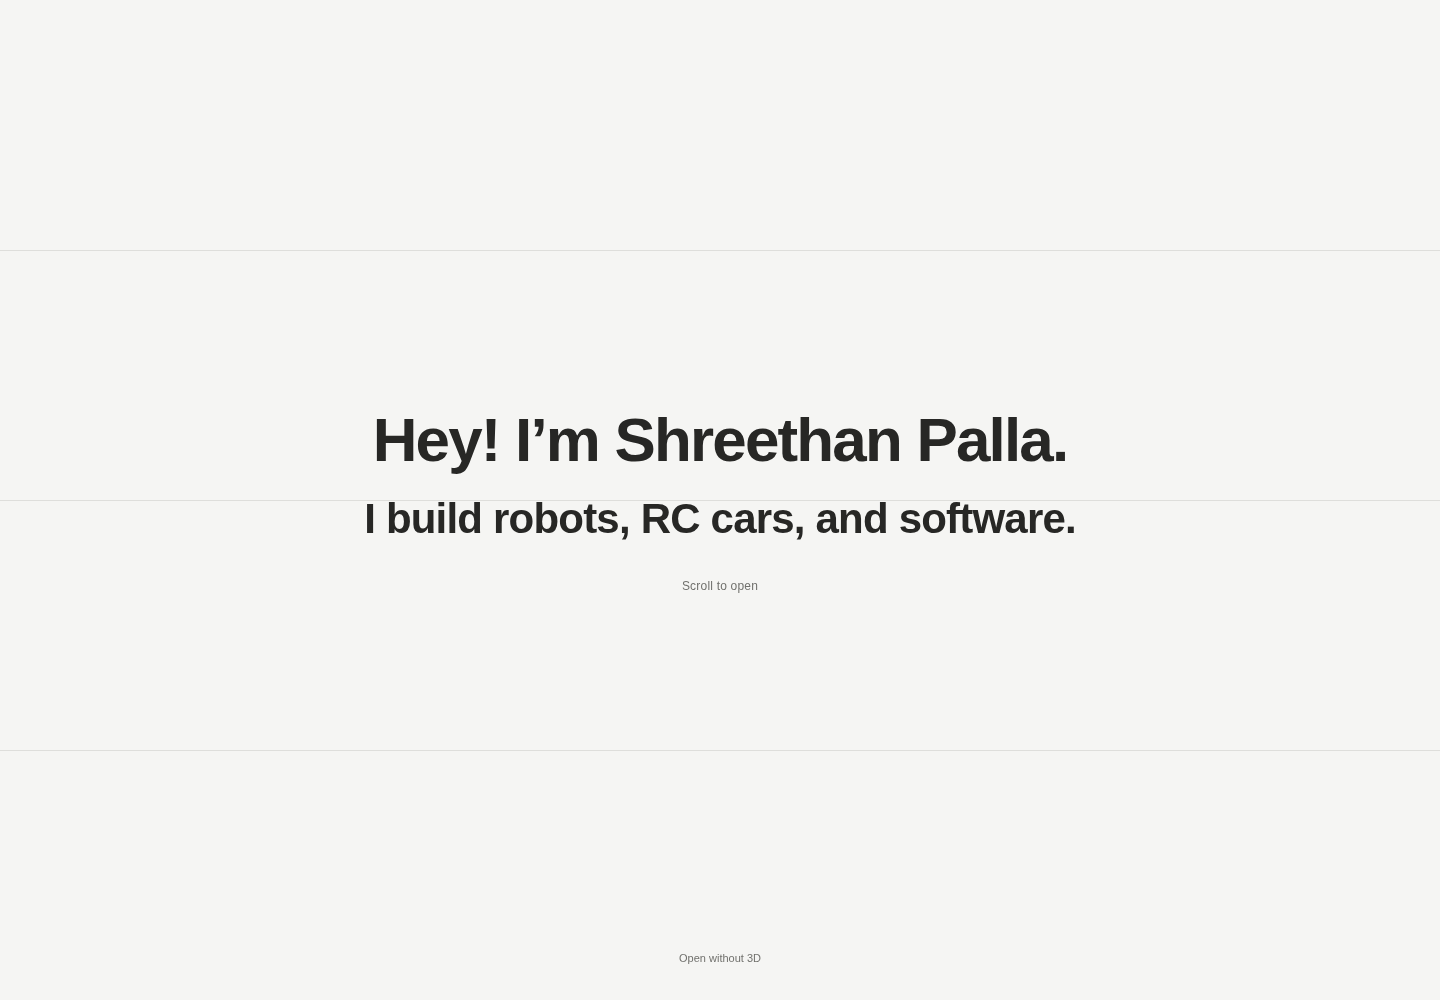
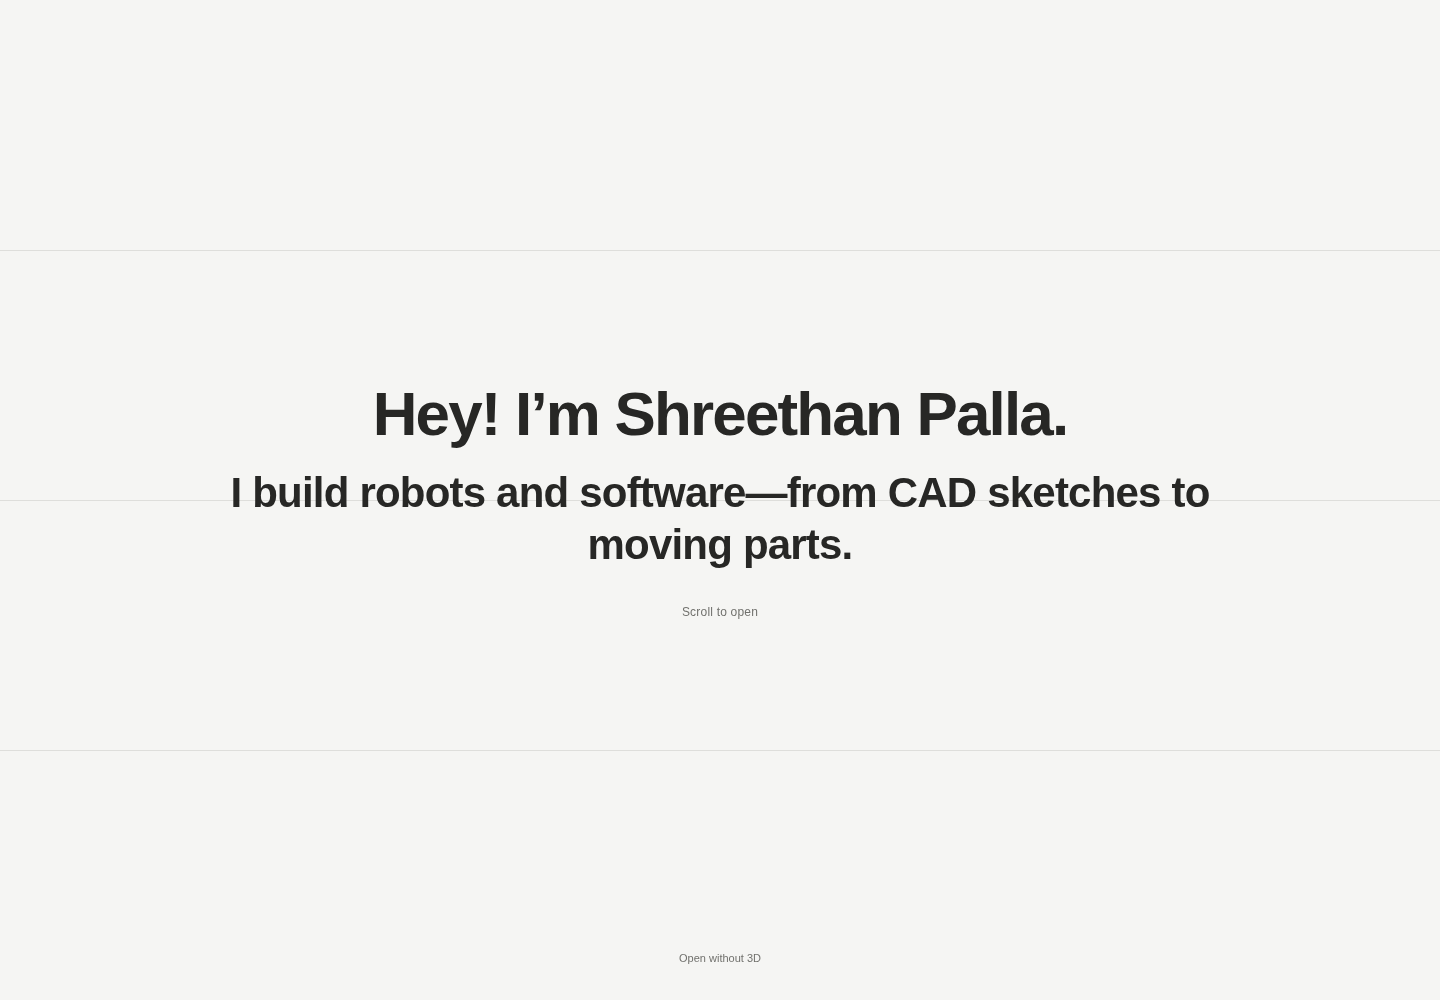
Make entrance copy editable and plan CAD-inspired portfolio interface

Changed region(s): [[0.1562, 0.372, 0.8438, 0.62]]

diff --git a/experience/src/Application/UI/components/LoadingScreen.tsx b/experience/src/Application/UI/components/LoadingScreen.tsx
@@ -1,6 +1,7 @@
 import React, { useEffect, useRef, useState } from 'react';
 import Application from '../../Application';
 import eventBus from '../EventBus';
+import { portfolioCopy } from '../../../portfolio-copy';
 
 /** Real asset loading, then text moves away before the sectional door opens. */
 const LoadingScreen: React.FC = () => {
@@ -141,7 +142,7 @@ const LoadingScreen: React.FC = () => {
     }, [ready]);
 
     if (phase === 'done') return null;
-    const loadingText = progress < .35 ? 'Loading graphics workspace…' : progress < .8 ? 'Setting up the workbench…' : 'One last bolt…';
+    const loadingText = progress < .35 ? portfolioCopy.loading.graphics : progress < .8 ? portfolioCopy.loading.workbench : portfolioCopy.loading.finishing;
     return (
         <div className={`garage-entry garage-entry--${phase}`} aria-label="Workshop entrance">
             <div className="garage-door" aria-hidden="true">
@@ -159,12 +160,12 @@ const LoadingScreen: React.FC = () => {
                 </>}
             </div>}
             {ready && <section className="garage-copy" ref={copy} aria-label="About Shreethan">
-                <h1 className="garage-name">Hey! I’m <span className="garage-person">Shreethan Palla.</span></h1>
-                <p className="garage-intro">I build robots, RC cars, and software.</p>
-                <p className="garage-hint">Scroll to open</p>
+                <h1 className="garage-name">{portfolioCopy.greeting} <span className="garage-person">{portfolioCopy.name}</span></h1>
+                <p className="garage-intro">{portfolioCopy.intro}</p>
+                <p className="garage-hint">{portfolioCopy.scrollHint}</p>
                 <p className="garage-sr-only">Scroll, swipe up, or use Page Down to open. Press End to continue directly.</p>
             </section>}
-            <a className="garage-direct" href="/desktop">Open without 3D</a>
+            <a className="garage-direct" href="/desktop">{portfolioCopy.directLink}</a>
         </div>
     );
 };

diff --git a/experience/src/portfolio-copy.ts b/experience/src/portfolio-copy.ts
@@ -1,0 +1,15 @@
+// Edit the words between quotes, then commit to publish a new build.
+// Keep the quotes and commas. Use double quotes if your text contains an apostrophe.
+// This file changes the entrance text, not the room, camera, or animation.
+export const portfolioCopy = {
+    greeting: "Hey! I’m",
+    name: "Shreethan Palla.",
+    intro: "I build robots and software—from CAD sketches to moving parts.",
+    scrollHint: "Scroll to open",
+    directLink: "Open without 3D",
+    loading: {
+        graphics: "Loading graphics workspace…",
+        workbench: "Setting up the workbench…",
+        finishing: "One last bolt…",
+    },
+};

diff --git a/docs/CONTENT-AND-INTERFACE.md b/docs/CONTENT-AND-INTERFACE.md
@@ -1,0 +1,75 @@
+# Edit your text and plan the monitor interface
+
+## Change the intro yourself
+
+The entrance text lives in one file: [`experience/src/portfolio-copy.ts`](../experience/src/portfolio-copy.ts). `greeting` and `name` make the first line. `intro` makes the description underneath. The other fields control the scroll hint, direct link label and three loading messages.
+
+On GitHub:
+
+1. Open [the file on main](https://github.com/shreethan0303/shreethan/blob/main/experience/src/portfolio-copy.ts).
+2. Click the pencil to edit. Change the words between double quotes, keeping the quotes and commas.
+3. Preview your changes, then commit to `main` for the production workflow, or a branch for a preview/review.
+4. Vercel's connected Git integration starts a build. Open the deployment for that branch and commit. Wait for **Ready**, then visit its website URL and refresh.
+
+Use the branch that supplies the URL you are viewing. A `main` commit does not change the `codex/reference-baseline` preview. Codex currently pushes this task's changes to both branches; an edit you make on GitHub changes only your chosen branch. Prefer the main production URL for routine text edits. A deployment-specific URL remains tied to that deployment; a branch alias advances to its newer successful deployments.
+
+A commit records a version of the source. A push sends local commits to GitHub; editing directly on GitHub already saves them there. A build compiles source into files a browser can run. A deployment publishes a build. While a newer build is running, an existing alias may still show the previous successful deployment. A failed build does not prove your change was published.
+
+The copy file exports a JavaScript object: labels on the left, strings on the right. `LoadingScreen.tsx` imports that object and inserts the strings into HTML through React. The text is real HTML on top of the 3D scene, so changing it needs no CAD export or texture editing. React treats these strings as text; do not put HTML tags in them.
+
+For local editing, save the file with `npm run dev` running and `npm run watch:experience` in a second terminal. Wait for the renderer to recompile and refresh. The initial `dev` command builds the renderer once; the separate watcher rebuilds it on later saves. Do not edit `public/experience`: it is generated and overwritten.
+
+Current introduction:
+
+> Hey! I’m Shreethan Palla.
+> I build robots and software—from CAD sketches to moving parts.
+
+Two alternative directions, if you prefer:
+
+- Systems: “I build robots and software. My favorite part is making the pieces work together.”
+- Iteration: “I build robots and software. Sketch, test, find the weak point, repeat.”
+
+These describe an approach without inventing awards, credentials or project results. The case studies should provide the evidence: your role, the constraint, your design decision, and what actually happened.
+
+## Proposed direction: a portfolio document inspired by CAD
+
+This is a design proposal, not an implemented replacement for the current desktop. Keep the white room, existing paper and entrance. Add the computer when a suitable asset is ready. Its screen can present your work as a lightweight engineering document, using your own name and visual identity.
+
+| Area          | What visitors see                                            | Purpose                                             |
+| ------------- | ------------------------------------------------------------ | --------------------------------------------------- |
+| Top bar       | Shreethan Palla · Projects · About · Résumé · Contact        | Direct access without CAD knowledge                 |
+| Left panel    | Actual project names and a small preview                     | Choose a project in one click                       |
+| Main viewport | A real model or photo, project summary and your contribution | Understand what you built before exploring          |
+| Project tabs  | Overview · Assembly · Build notes · Results                  | Move between evidence and explanation               |
+| Model control | Explode / Assemble, plus an optional scroll-controlled view  | Explain components only where the model supports it |
+| Back control  | Back to desk                                                 | Return to the physical scene without getting lost   |
+
+The Part Studio / Assembly idea works best as a visual reference: a neat component tree, a generous viewport and document tabs. Use familiar portfolio labels for essential navigation. Each control needs a real job. Feature-history entries could become real build milestones with a photo and one design decision; do not add pretend tools or an empty toolbar just to resemble CAD software.
+
+At launch, choose either a project list or project tabs as the primary project selector. Avoid two competing selectors. On phones, put the project chooser above the content instead of squeezing in a permanent sidebar. Keep hover highlighting optional; taps and keyboard activation must open the same content.
+
+## How it would work technically
+
+The room uses Three.js to render meshes from a camera viewpoint. The computer's visible screen can carry an HTML interface positioned with the existing CSS3D integration. Buttons, text and navigation stay ordinary HTML. That makes readable content much easier than drawing letters onto a 3D texture.
+
+Next.js supplies the direct content routes. Use one shared source of project data for the monitor and direct pages; do not maintain separate biographies. A project URL should open the same case study without requiring the entrance or a 3D-capable device. Keep `/resume` and `/desktop` accessible directly. The current desktop is an older, simple window interface; this proposed CAD-document layout would replace its presentation after review.
+
+Onshape is where you author geometry and assembly structure. It is not required at runtime: export a model, optimize a public copy, then load it in the website. A GLB is a packaged mesh/material file, not the original editable feature history or constraint solver. The website can rotate, highlight and separate named meshes without reproducing a CAD application. We author exploded directions and distances separately so they explain the actual assembly. See [the interaction guide](WORKSHOP-INTERACTIONS.md) and [CAD workflow](WORKFLOW.md#cad-and-appearance).
+
+For scrolling, map progress from 0 to 1 to each part's assembled position plus an authored separation offset. Interpolate positions, not the original CAD dimensions. Reverse scroll brings parts back together. Keep a visible Assemble control and a readable description. Select one assembly section for this behavior; leave the rest of the page's scrolling predictable.
+
+Do not embed a full live Onshape editor for the launch. A portfolio needs fast reading and navigation; authentication, editing toolbars and a CAD session introduce requirements the portfolio does not need. A link to a deliberately public Onshape document can supplement the case study later.
+
+## Two-day order
+
+1. Settle the monitor layout with one reusable case-study template and direct navigation. Add the real short bio, project facts, links and résumé when supplied. Continue using lorem ipsum in the résumé until then.
+2. Import one real named-part CAD export and implement its inspection/exploded behavior. Validate phone layout, direct routes, keyboard access and the hosted deployment. A good photo and clear case study can ship first if the export is not ready.
+
+The proper PC asset remains deferred, with no new placeholder inserted. Bike, games, a CAD constraint solver and elaborate fake OS interactions stay outside this launch scope.
+
+## References inspected for this direction
+
+- [Henry Heffernan's room README](https://github.com/henryjeff/portfolio-website): explicitly separates the 3D room and inner 2D site into two repositories. Reuse that separation of responsibilities, retaining the license credit for adapted code.
+- [Brittany Chiang's v4 hero source](https://github.com/bchiang7/v4/blob/master/src/components/sections/hero.js): name, specific work statement and short explanatory paragraph are distinct. Borrow the clarity and hierarchy, not another person's biography. This is a source reference to v4, not a claim about the current live homepage.
+
+These public repository sources were retrieved. No live interactive Onshape-themed portfolio was verified in this research, and this proposal is not a claim that the concept is unprecedented.

diff --git a/docs/DECISIONS.md b/docs/DECISIONS.md
@@ -10,7 +10,7 @@ Replace personal metadata and iframe content immediately, remove upstream analyt
 
 An empty, seamless white/cream studio with no visible wall edges or decorative page header. A workbench, computer and project objects are the focus. A full FRC robot sits beside the bench. Black PC, restrained white/red lighting. Rackets represent tennis. Bike/car are deferred.
 
-Entrance: garage door and centered Start card; open and pan once to overview. Approach the monitor smoothly. Projects returns to physical project objects; select an object to open a readable case study. Paper reveals résumé access. Essential content is also reachable as normal pages.
+Entrance: text directly on a garage door; scroll the text away, then open and pan once to overview. Approach the monitor smoothly. Projects returns to physical project objects; select an object to open a readable case study. Paper reveals résumé access. Essential content is also reachable as normal pages. A proposed Onshape-inspired monitor interface is described in [the content/interface guide](CONTENT-AND-INTERFACE.md); it is not implemented yet.
 
 ## Ordered changes
 
@@ -25,7 +25,7 @@ No simultaneous redesign of all six steps. No claims of real robot accuracy with
 
 ## Garage entrance implemented
 
-A flat white/off-white sectional door uses four sections with thin seams and no decorative recesses, gradients or shadows. The intro is bold text directly on the door: “Hey! I’m Shreethan Palla. I build robots, RC cars, and software.” There is no intro card or Enter button. The first 30% of scroll progress moves/fades the text away; the remaining 70% opens the door. Reversing scroll restores earlier stages until entry completes. Page Down/arrow keys advance the same sequence; End or keyboard Enter can continue directly. The room camera starts its approach after the door opens.
+A flat white/off-white sectional door uses four sections with thin seams and no decorative recesses, gradients or shadows. The intro is bold text directly on the door: “Hey! I’m Shreethan Palla. I build robots and software—from CAD sketches to moving parts.” Its wording lives in `experience/src/portfolio-copy.ts`. There is no intro card or Enter button. The first 30% of scroll progress moves/fades the text away; the remaining 70% opens the door. Reversing scroll restores earlier stages until entry completes. Page Down/arrow keys advance the same sequence; End or keyboard Enter can continue directly. The room camera starts its approach after the door opens.
 
 A small circular loader appears only while real assets are loading. Its messages are “Loading graphics workspace…”, “Setting up the workbench…” and “One last bolt…”, chosen by completed-asset progress. There is no forced loading delay. Open without 3D remains available during loading and entry. Asset failures show a short error and preserve that direct route. Reduced-motion skips entry animation.
 

diff --git a/docs/VALIDATION.md b/docs/VALIDATION.md
@@ -85,3 +85,9 @@ An intentionally aborted audio asset produced a short failure alert, removed the
 ![Text-only introduction](images/garage-door.png)
 
 ![Phone introduction](images/intro-mobile.png)
+
+## Editable introduction and interface proposal
+
+The full production build, formatting and whitespace checks passed. Entrance and loading copy now come from `experience/src/portfolio-copy.ts`; the intro no longer mentions RC cars. Chromium inspected the updated HTML at 1440×1000 and 390×844: the full greeting, description and hint fit within the viewport, with no horizontal overflow or page errors. Updated desktop/phone entrance screenshots are above. The existing entrance animation and scene geometry were not changed in this pass.
+
+The content/interface guide records GitHub editing steps, branch/deployment distinctions and an Onshape-inspired monitor proposal. Public source retrieval verified Henry's separate room/inner-site structure and Brittany Chiang's v4 hero hierarchy. The proposed monitor interface has not been implemented. A local passing build is not a claim that Vercel has finished publishing this commit.

diff --git a/README.md b/README.md
@@ -31,9 +31,12 @@ For a public preview, follow [the deployment guide](docs/DEPLOYMENT.md). Use `ma
 
 For a plain-language explanation, read [how the website works](docs/FUNDAMENTALS.md).
 
+To change your greeting, introduction or loading messages yourself, edit [portfolio-copy.ts](experience/src/portfolio-copy.ts). See [editing text and the proposed Onshape-inspired interface](docs/CONTENT-AND-INTERFACE.md) for the GitHub steps and next design direction.
+
 ## Where things live
 
 - `experience/src/Application/`: original renderer, camera, scene and screen integration.
+- `experience/src/portfolio-copy.ts`: editable entrance and loading text.
 - `experience/static/`: selected upstream GLB models, baked textures and media.
 - `experience/UPSTREAM.md`, `experience/LICENSE.md`: exact upstream commit, attribution and adaptations.
 - `app/desktop/`: same-origin personal desktop route shown inside the monitor.
